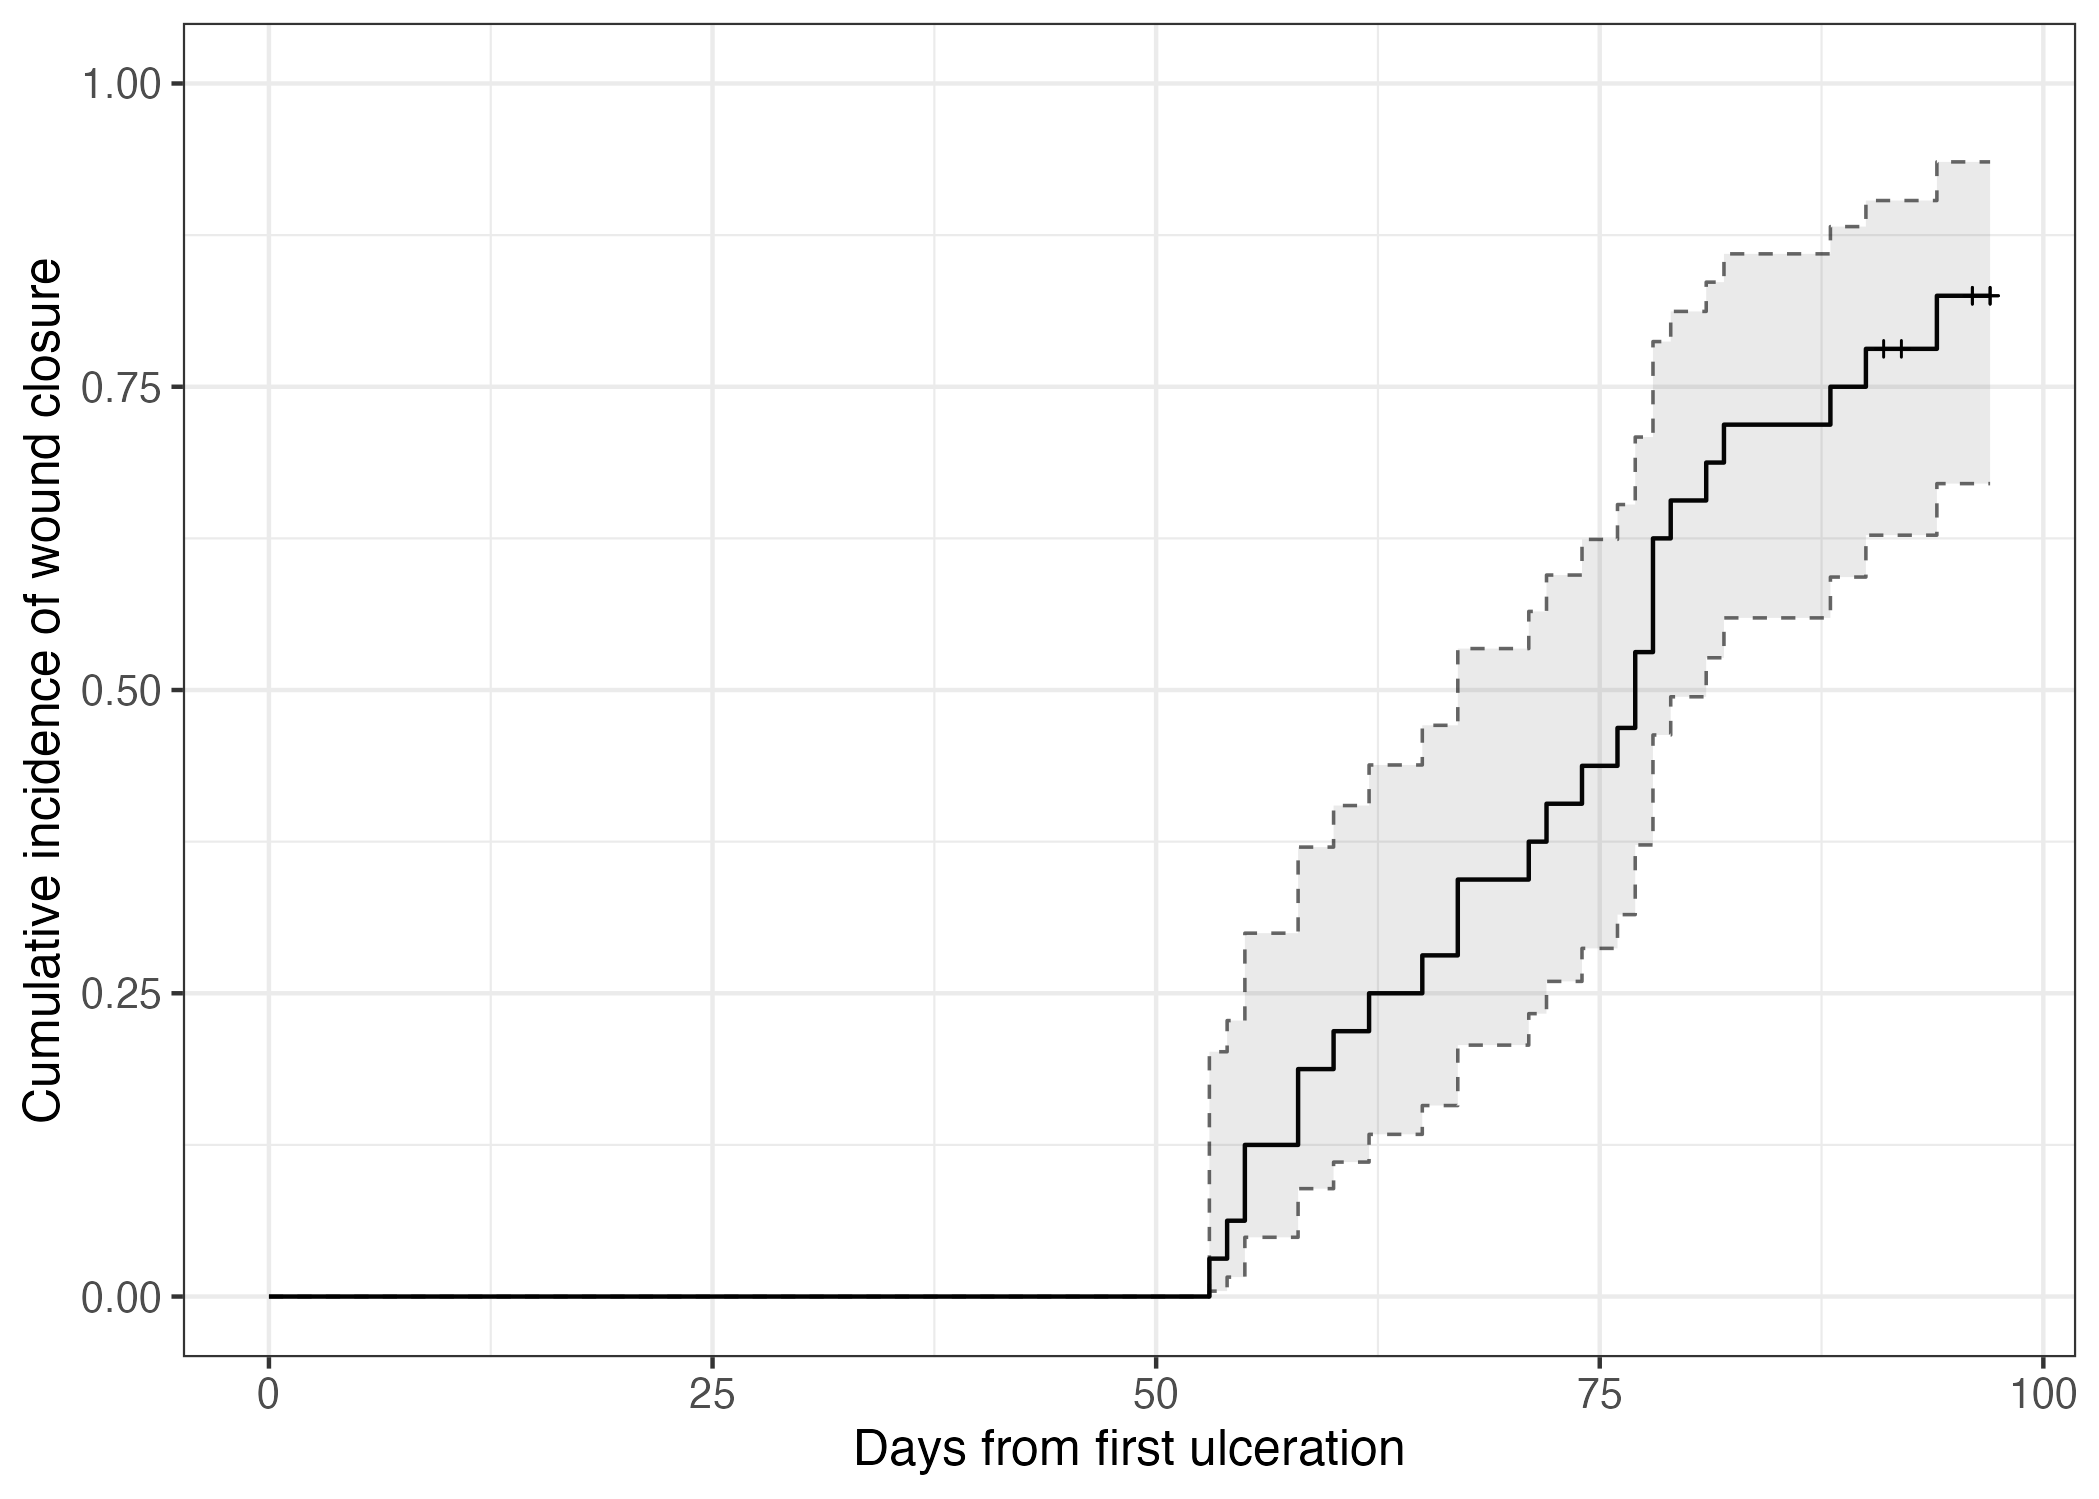
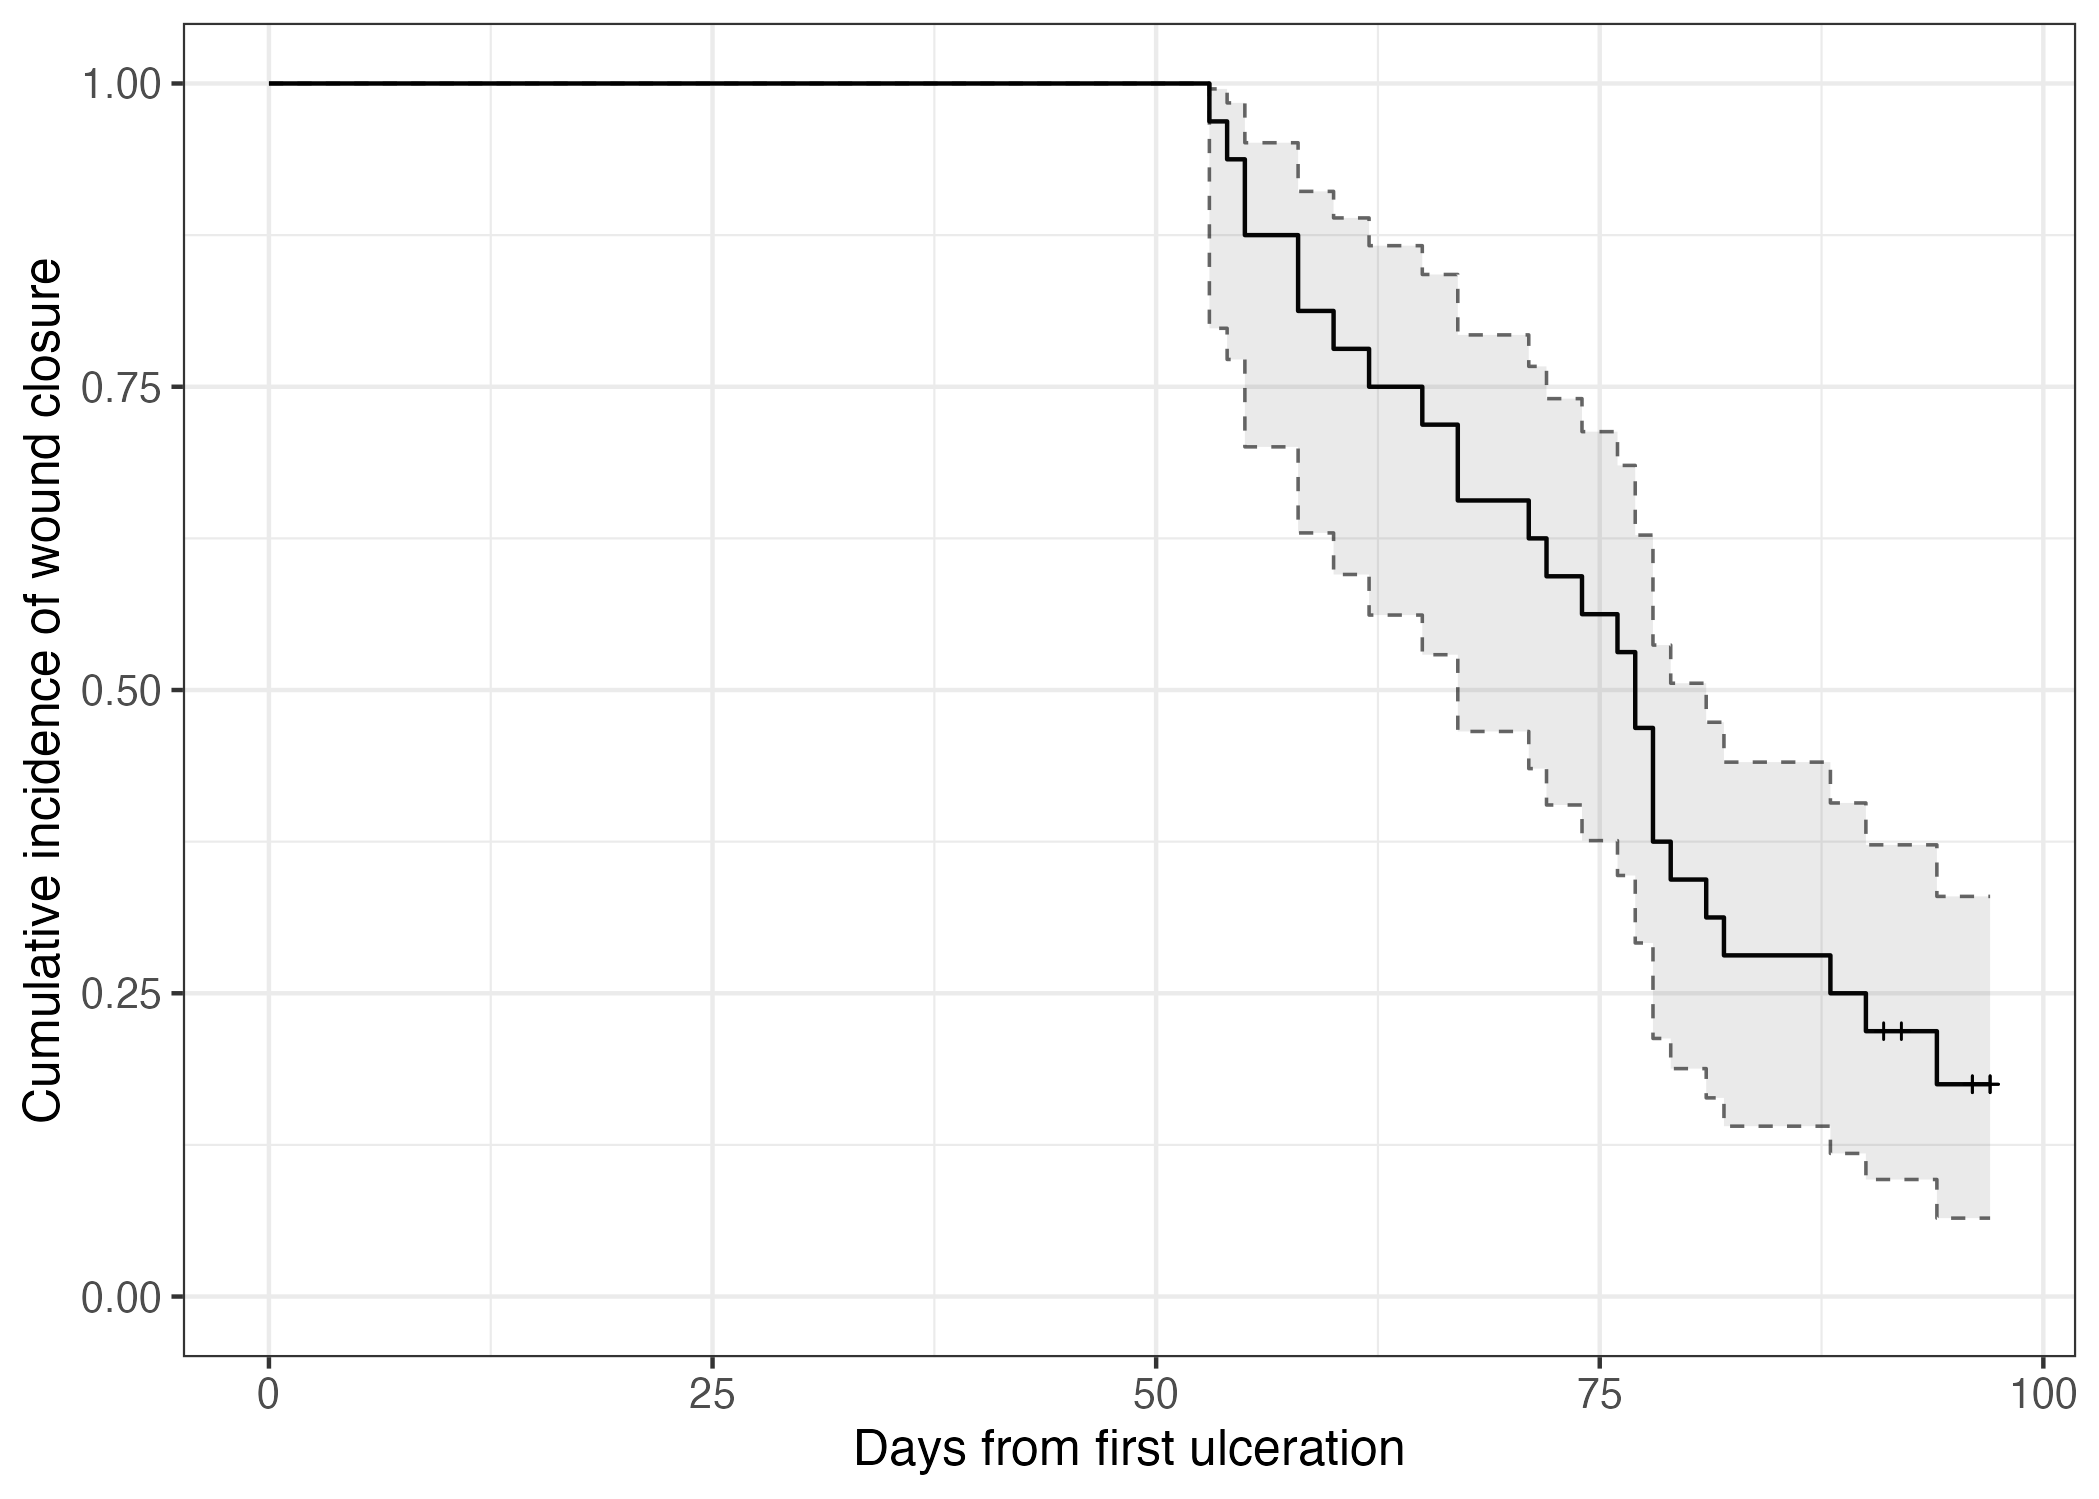
Flip KM

diff --git a/umb_cri_model_survival_analysis_figures.md b/umb_cri_model_survival_analysis_figures.md
@@ -123,7 +123,7 @@ ulceration_km_with_ci <- df_injury |>
   filter(wound_type == "Ulceration") |> 
   mutate(days_to_closure = wound_end - wound_start) |> 
   survfit(Surv(days_to_closure, wound_resolved) ~ 1, data = _, conf.type = "log-log") |> 
-  ggsurvfit(type = "risk") +
+  ggsurvfit() +
   add_confidence_interval(type = "lines", alpha = 0.6, size = 0.4, linetype = "dashed") +
   add_confidence_interval(alpha = 0.1) + 
   add_censor_mark(size = 1) +
